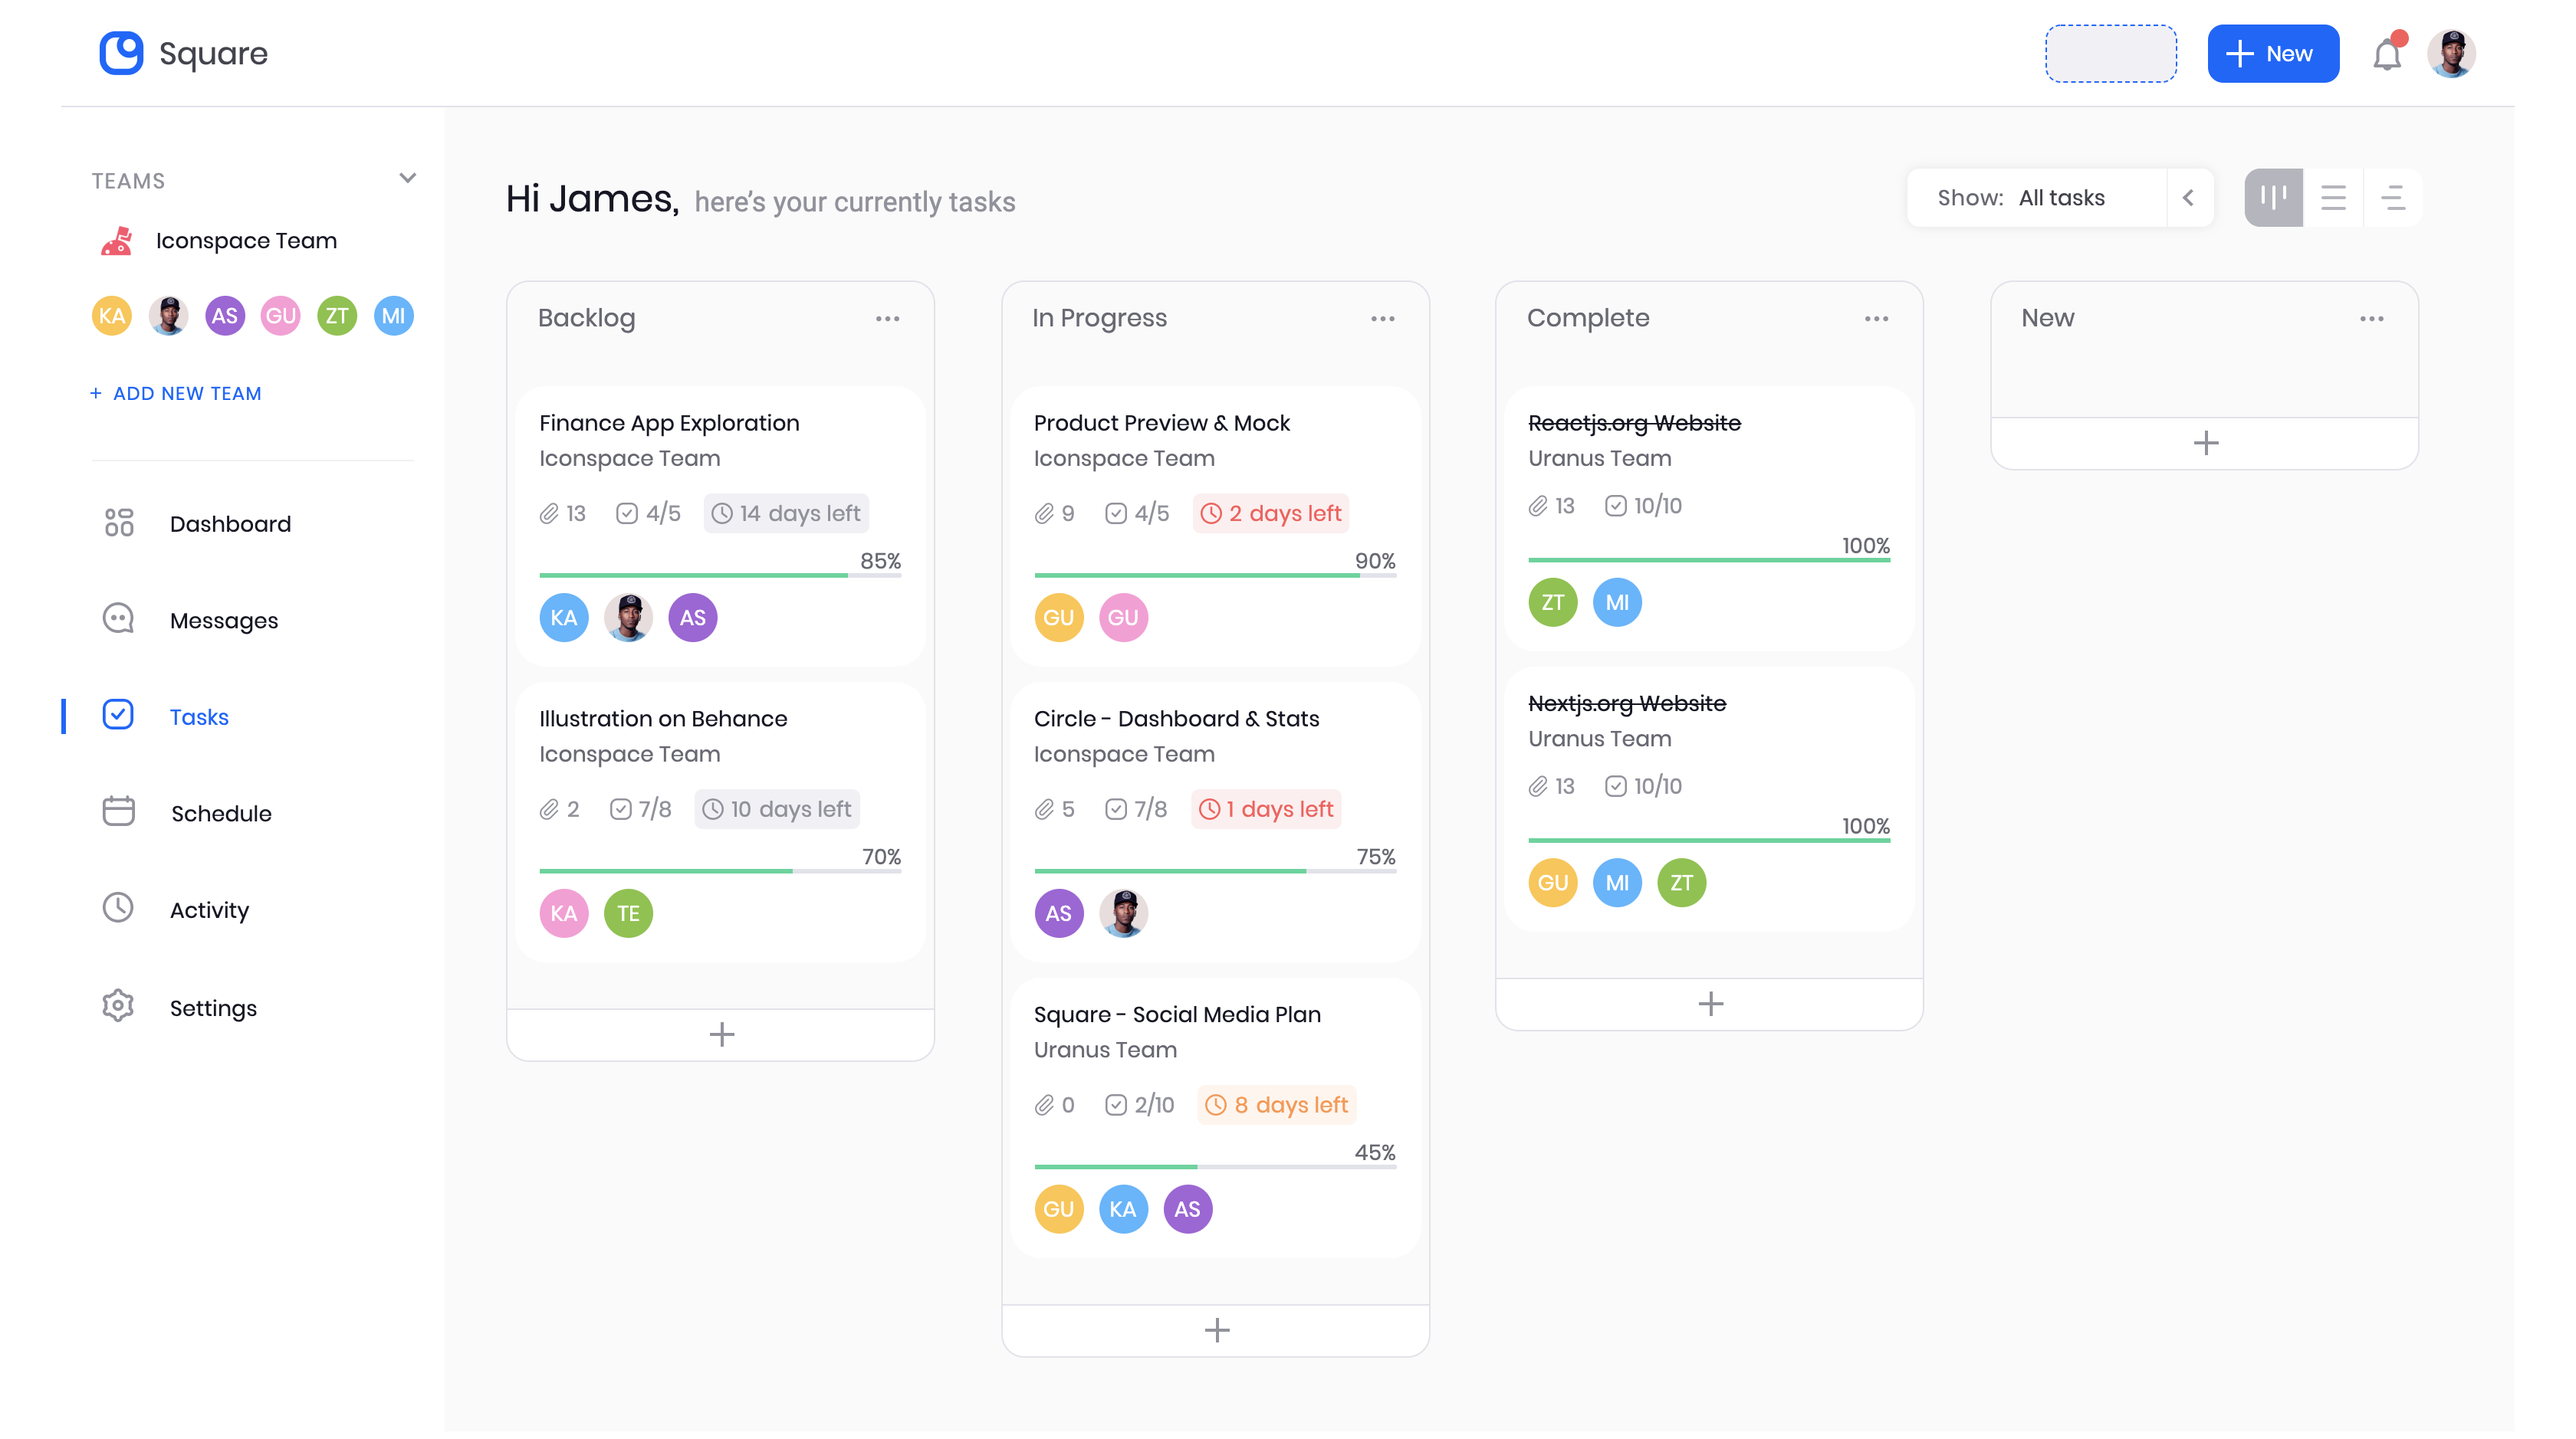
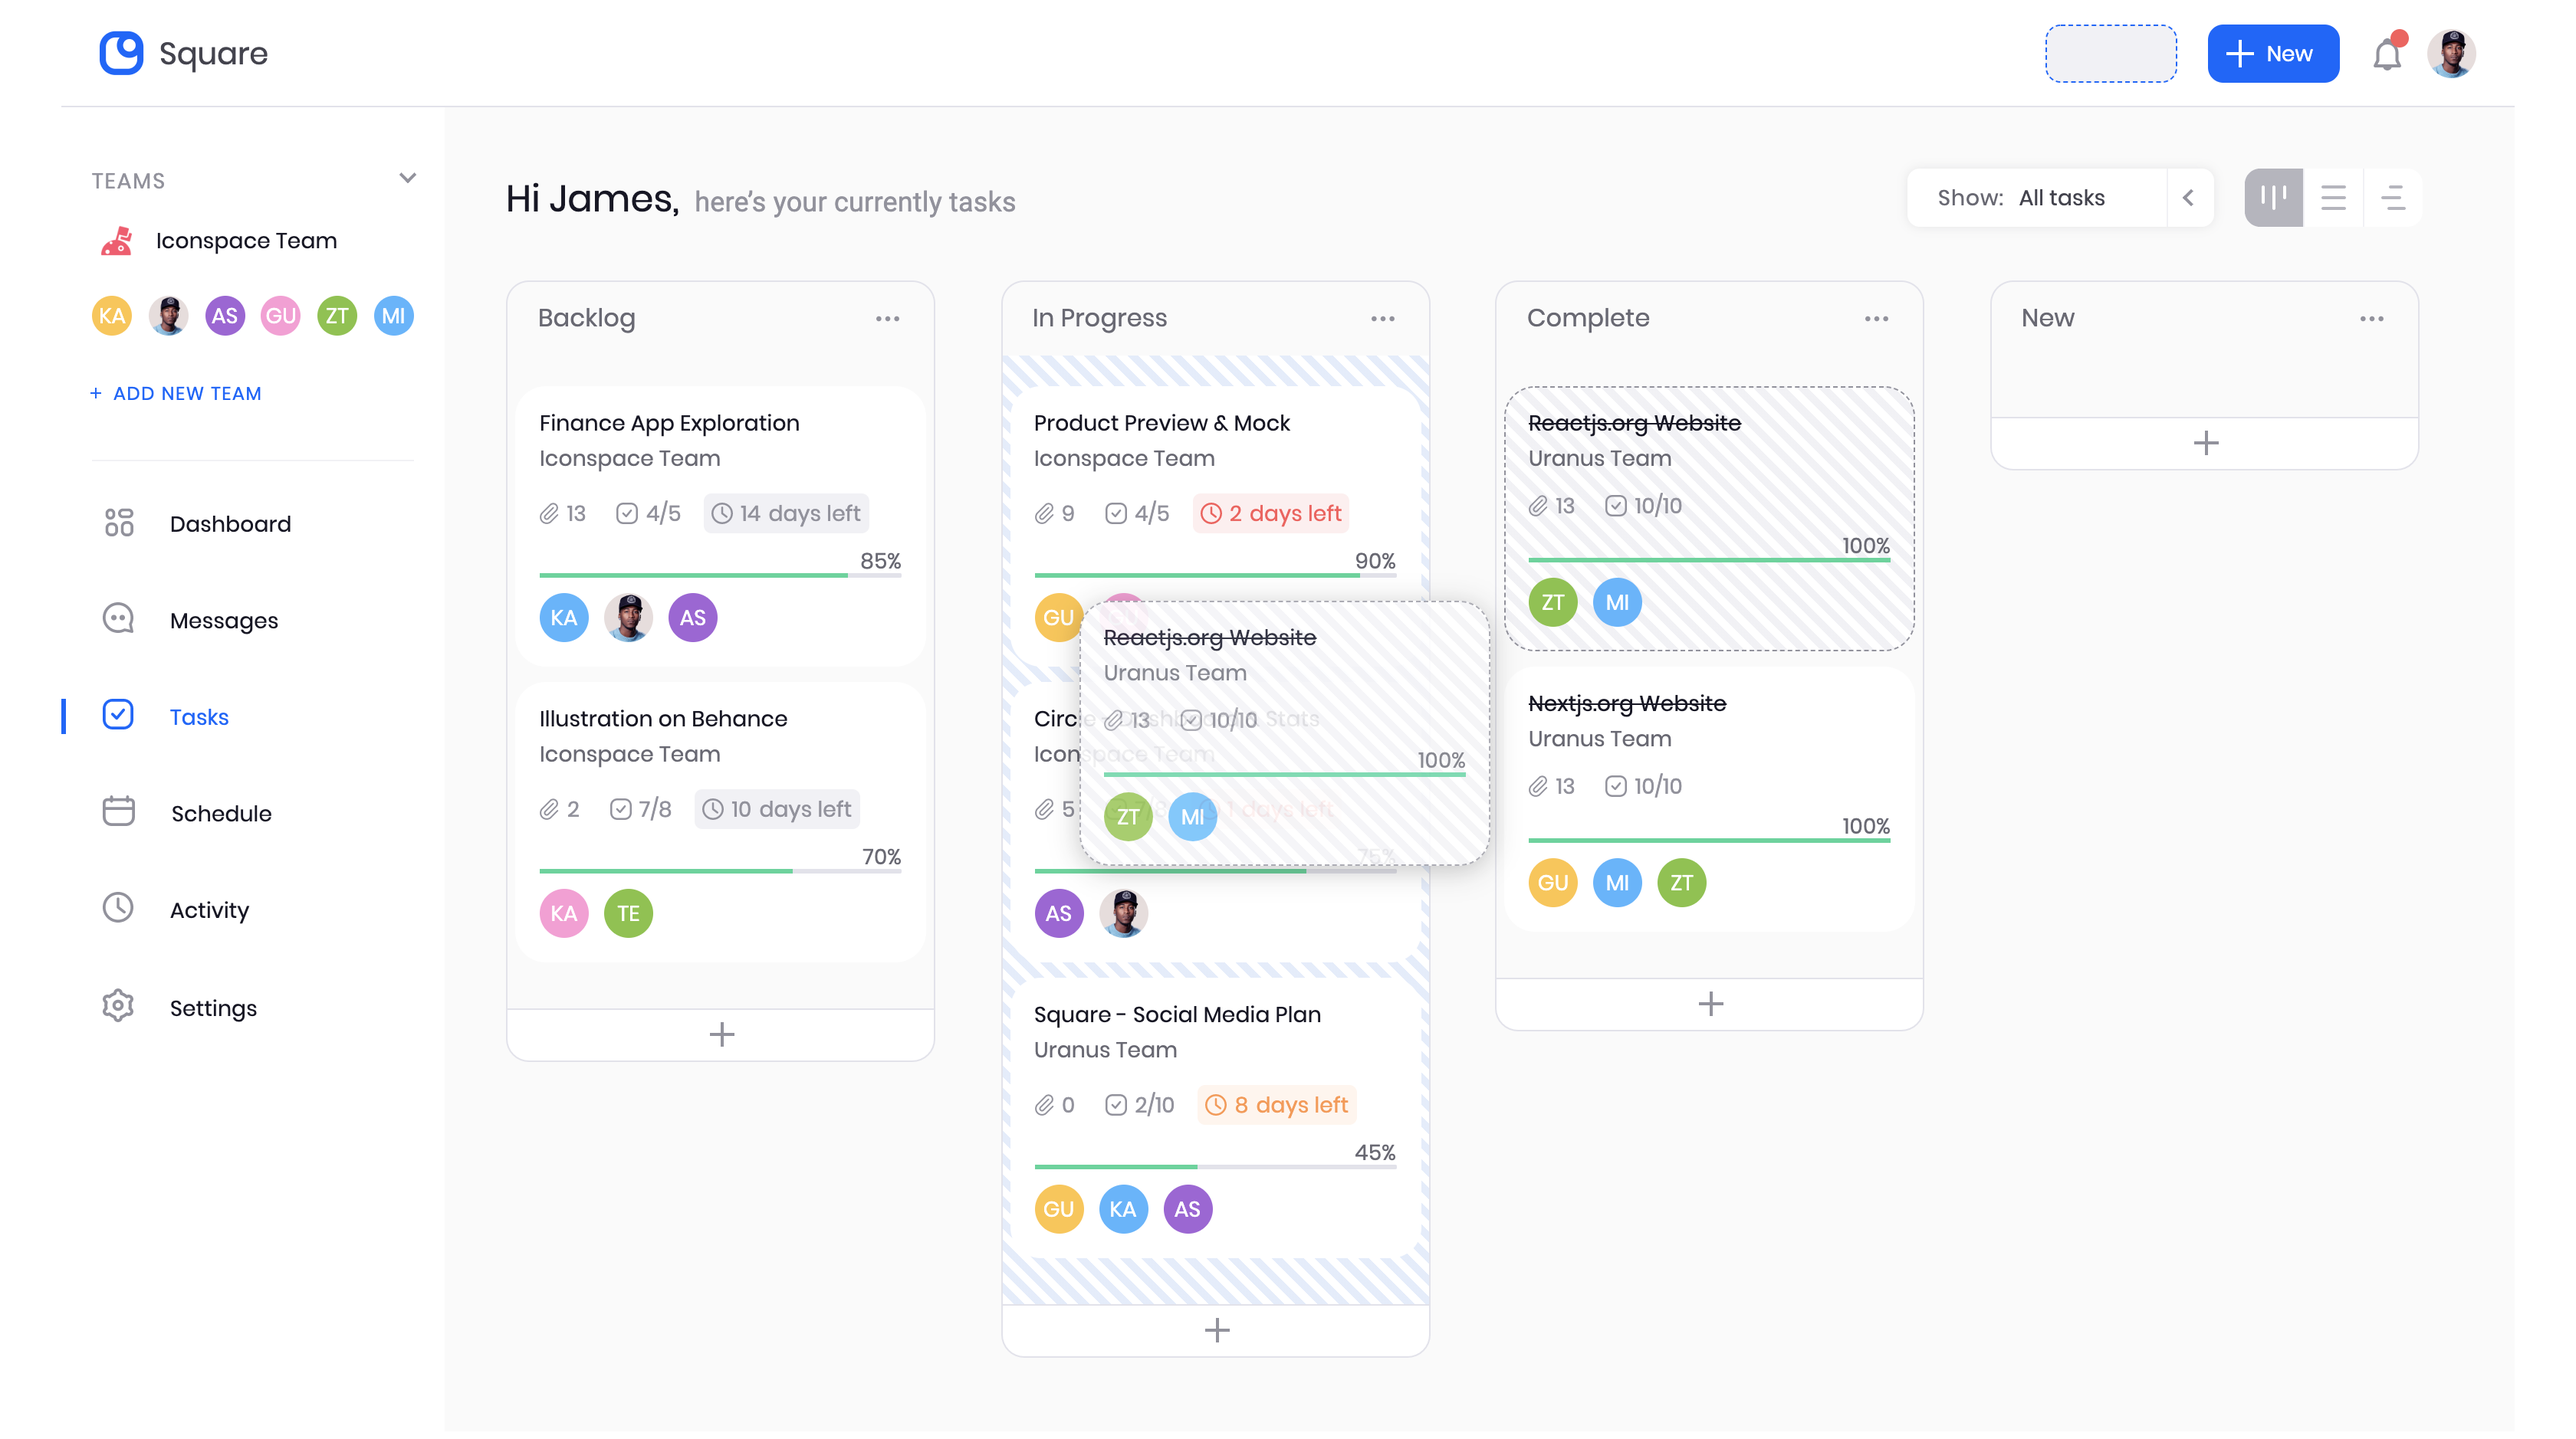
Internal task #28

Changed region(s): [[0.4062, 0.4015, 0.5625, 0.6177]]

diff --git a/README.md b/README.md
@@ -20,3 +20,6 @@ Plus you will see how to use correctly:
 
 
 <img src="https://raw.githubusercontent.com/heysafronov/square-react-dashboard/master/src/assets/images/github/1.png?token=AH7OSB5PYK3KP7EJQ5UZIWS57NC7C">
+
+##
+Try to use drag and drop and other functionality
